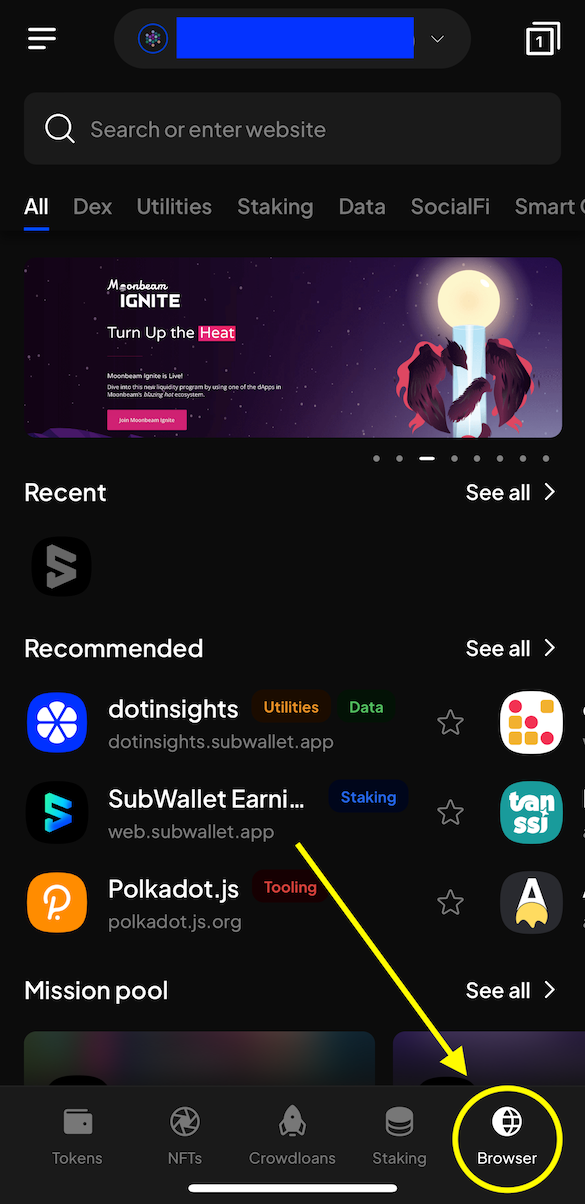
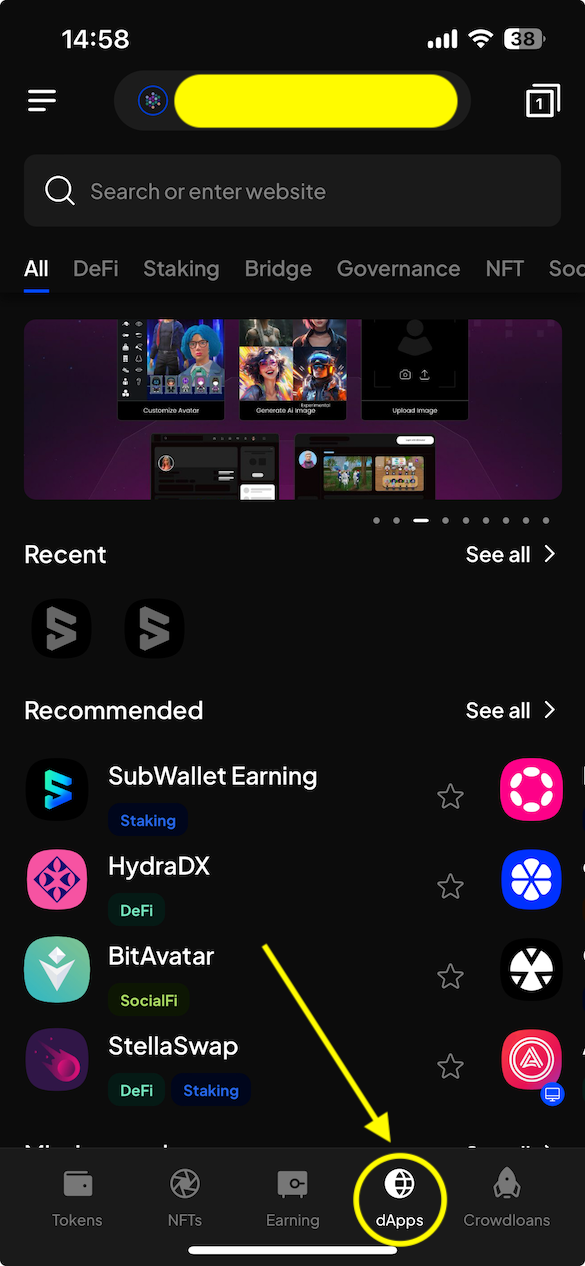
Update onboarding process
New screenshot for SubWallet, and slightly updated instructions to clear things up

diff --git a/blockchain/for-citizens/onboarding.md b/blockchain/for-citizens/onboarding.md
@@ -3,12 +3,12 @@
 
 ## TLDR
 
-1. Make sure you are an eresident/citizen with correct merits on [liberland.org](www.liberland.org)
+1. Make sure you are an eresident/citizen with correct mMrits on [liberland.org](www.liberland.org)
 2. [Install SubWallet](https://www.subwallet.app/download.html), create wallet and save passphrase on paper
 3. Go to [blockchain.liberland.org in subwallet](https://mobile.subwallet.app/browser?url=https%3A%2F%2Fblockchain.liberland.org%2F) and follow the steps
 4. Click on profile, claim onboarding LLD and update identity
 
-You will then get your merits within a day!
+You will then get your Merits within one business day!
 
    ![subwallet-browser-menu](../media/subwallet/subwallet_browser_menu.png)
 
@@ -31,8 +31,7 @@ Migrating your identity from [liberland.org](www.liberland.org) to Liberland Blo
 [Desktop wallet setup](desktop-wallet.md)
 
 ### 2 -  Securing keys
-* During the wallet setup, you got a 12 word mnemonic seed phrase. **It is very important not to lose or share that phrase with anyone,**
-as it is the key or 'password' to your on-chain existence. Make sure to back it up and store it somewhere where it will not be lost.
+* During the wallet setup, you got a 12 word mnemonic seed phrase. **It is very important not to lose or share that phrase with anyone,** as it is the key or 'password' to your on-chain existence. Make sure to back it up and store it somewhere where it will not be lost.
 * A common, low-tech solution is to write it on a piece of paper or use a password manager.
 
 ### 3 - Getting Merits and residency
@@ -51,17 +50,19 @@ At this point you should have your public wallet address, your 12-word mnemonic 
 
 If on desktop, do the next steps using a browser you have polkadotjs or subwallet installed on (e.g. Firefox, Chrome, etc.).
 
-If on mobile, **you must use the SubWallet app's built-in browser located in lower-right corner in the app.**
+If on mobile, **you must use the SubWallet app's built-in browser located in bottom menu in the app.** The button says 'dApps'.
 
 ![subwallet-browser-icon](../media/subwallet/subwallet_browser_icon.png)
 
 * Navigate to [https://blockchain.liberland.org](https://blockchain.liberland.org), login and follow the steps.
 ![subwallet-search-bar](../media/subwallet/subwallet_search_bar.jpg)
-* Its time to claim your tokens and resident/citizen identity!
+* It's time to claim your tokens and e-resident/citizen identity!
 * Open the menu and select the 'Profile' tab.
-* Since all actions on-chain cost a small amount of gas fees and you are already a resident, you are eligible for a small amount of LLD to get you started.
+* Since all actions on-chain cost a small amount of gas fees and you are already an e-resident, you are eligible for a small amount of LLD to get you started.
 * First, select on the 'Claim complimentary LLD' button. After a few seconds, it should tell you to refresh the page and you should have 2 LLDs so that you can begin using the blockchain right away.
-* Next, select on 'Update identity', and set it to what you want your on-chain identity to be. **There is no requirement to use your real name,** but make sure to include your correct citizenship/residency status.
-* After you select on 'Set identity', as with any onchain transaction, a popup window from your wallet of choice should appear, and it will ask you to sign a transaction.
+* Next, select on 'Update identity', and set it to what you want your on-chain identity to be. **There is no requirement to use your real name,** but make sure to include your correct citizenship/e-residency status.
+* After you select on 'Set identity', as with any on-chain transaction, a popup window from your wallet of choice should appear, and it will ask you to sign a transaction.
 Some browsers might prevent popup windows, so make sure to click on the wallet extension icon if you see no popup. In any case, sign the transaction and you are good to go.
-* After this, it usually takes about a day for the Ministry of Interior to confirm your on-chain identity and transfer your merits.
+* After this, it usually takes approximately one day for the Ministry of Interior to confirm your on-chain identity and transfer your Merits.
+
+Please wait patiently for the on-chain identity and transfer process to be completed as it is a manual process at this time.
